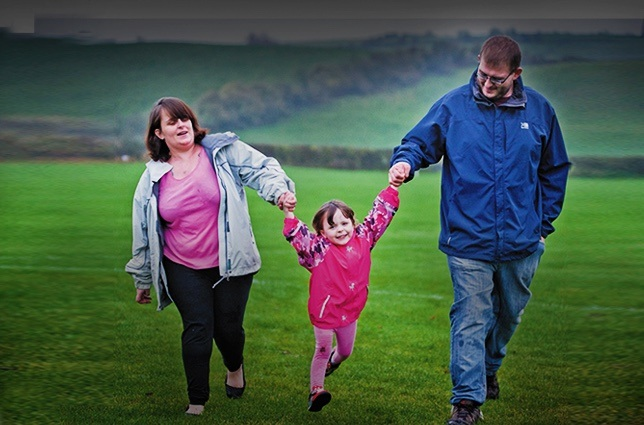
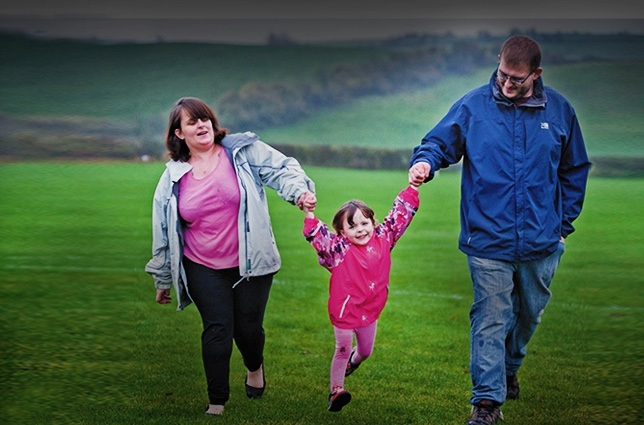
Working families page tweaks
- Responsive tweaks
- Correct anchor links
- Update small hero image

diff --git a/assets/sass/components/tabs.scss b/assets/sass/components/tabs.scss
@@ -1,3 +1,7 @@
+/* =========================================================================
+   Tabs
+   ========================================================================= */
+
 // the tabs themselves (eq. square, blocky elements)
 .tabs__tabset {
     background-color: #ffffff;
@@ -42,24 +46,26 @@
     @media print {
         display: none;
     }
-
 }
 
 .tab__pane--accordion {
-
-    $headerHorizontalSpace: 40px;
-
     // accordion headers (also shown for non-JS users)
     header {
         a {
-            display: block;
-            background-color: palette('blue');
-            padding: 20px $headerHorizontalSpace;
             color: #ffffff;
-            text-decoration: none;
-            margin-bottom: 2px;
+            background-color: palette('blue');
             font-size: 20px;
             font-weight: bold;
+            text-decoration: none;
+
+            display: block;
+            margin-bottom: 2px;
+            padding: $spacingUnit;
+
+            @include mq(tablet) {
+                padding-left: $spacingUnit * 2;
+                padding-right: $spacingUnit * 2;
+            }
 
             @media print {
                 background-color: #eeeeee;
@@ -77,12 +83,16 @@
             position: relative;
 
             .tab__arrow {
+                pointer-events: none;
+                width: 45px;
+                height: 100%;
                 position: absolute;
                 top: 0;
-                right: $headerHorizontalSpace;
-                height: 100%;
-                width: 45px;
-                pointer-events: none;
+                right: $spacingUnit;
+
+                @include mq(tablet) {
+                    right: $spacingUnit * 2;
+                }
 
                 svg {
                     height: 100%;
@@ -103,14 +113,11 @@
             }
         }
     }
-
 }
 
 // the tab panes (eg. the content boxes displayed when tabs are clicked)
 .tab__pane {
-
     .js-on & {
-
         @include mq('tablet') {
             header {
                 display: none;

diff --git a/assets/sass/components/heroes.scss b/assets/sass/components/heroes.scss
@@ -31,7 +31,10 @@ $heroSpaceFromLeft: 20px;
             // Theses are being explicitly named here to isolate this code from core breakpoints
             // This code will be deleted once existing hero image have been migrated to the new
             // section-hero style
-            $breakpointsToUse: (tablet: 760px, desktop: 980px);
+            $breakpointsToUse: (
+                tablet: 760px,
+                desktop: 980px
+            );
 
             // for each of the non-default (eg. breakpoint-matching) sets
             // output a media query with a new image and aspect ratio
@@ -133,7 +136,7 @@ $heroSpaceFromLeft: 20px;
     }
 }
 .section-hero__header {
-    margin-bottom: $spacingUnit / 2;
+    margin-bottom: $spacingUnit / 1.5;
 
     @media screen and (min-width: 380px) {
         margin-bottom: $spacingUnit;

diff --git a/assets/sass/scaffolding/header.scss b/assets/sass/scaffolding/header.scss
@@ -462,10 +462,14 @@ html:not(.contrast--high) .has-full-bleed-header .header {
         }
     }
 }
-html:not(.contrast--high).locale--cy .has-full-bleed-header .header,
-html:not(.contrast--high) .has-welsh-logo.has-full-bleed-header .header {
-    .logo {
+html:not(.contrast--high).locale--cy .has-full-bleed-header .logo,
+html:not(.contrast--high) .has-welsh-logo.has-full-bleed-header .logo {
+    margin-top: $spacingUnit / 2;
+    margin-left: $spacingUnit / 2;
+
+    @include mq(tablet) {
         margin-top: $spacingUnit;
+        margin-left: 0;
     }
 }
 html:not(.contrast--high).is-ie .has-full-bleed-header .logo {
